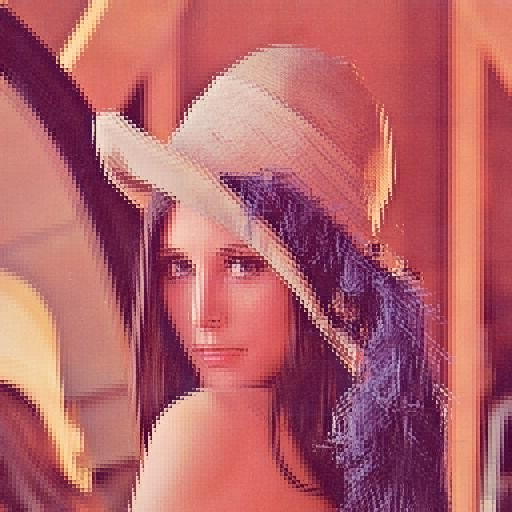
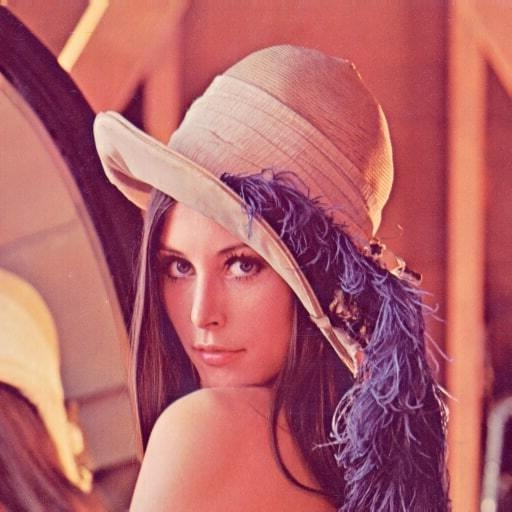
results

diff --git a/PACS-master/Laboratory-5_buffers/image_flip_environ.c b/PACS-master/Laboratory-5_buffers/image_flip_environ.c
@@ -255,11 +255,12 @@ int main(int argc, char** argv)
 
 
   // Launch kernel
-  const size_t global_size[3] = {static_cast<size_t>(width) , static_cast<size_t>(height), static_cast<size_t>(spectrum)};
+  // const size_t global_size[3] = {static_cast<size_t>(width) , static_cast<size_t>(height), static_cast<size_t>(spectrum)};
+  const size_t global_size[2] = {static_cast<size_t>(width) , static_cast<size_t>(height)};
 
   start_k = clock();
 
-  err = clEnqueueNDRangeKernel(command_queue, kernel, 3, NULL, global_size, NULL, 0, NULL, NULL);
+  err = clEnqueueNDRangeKernel(command_queue, kernel, 2, NULL, global_size, NULL, 0, NULL, NULL);
   cl_error(err, "Failed to launch kernel to the device\n");
   printf("Kernel launched\n");
 
